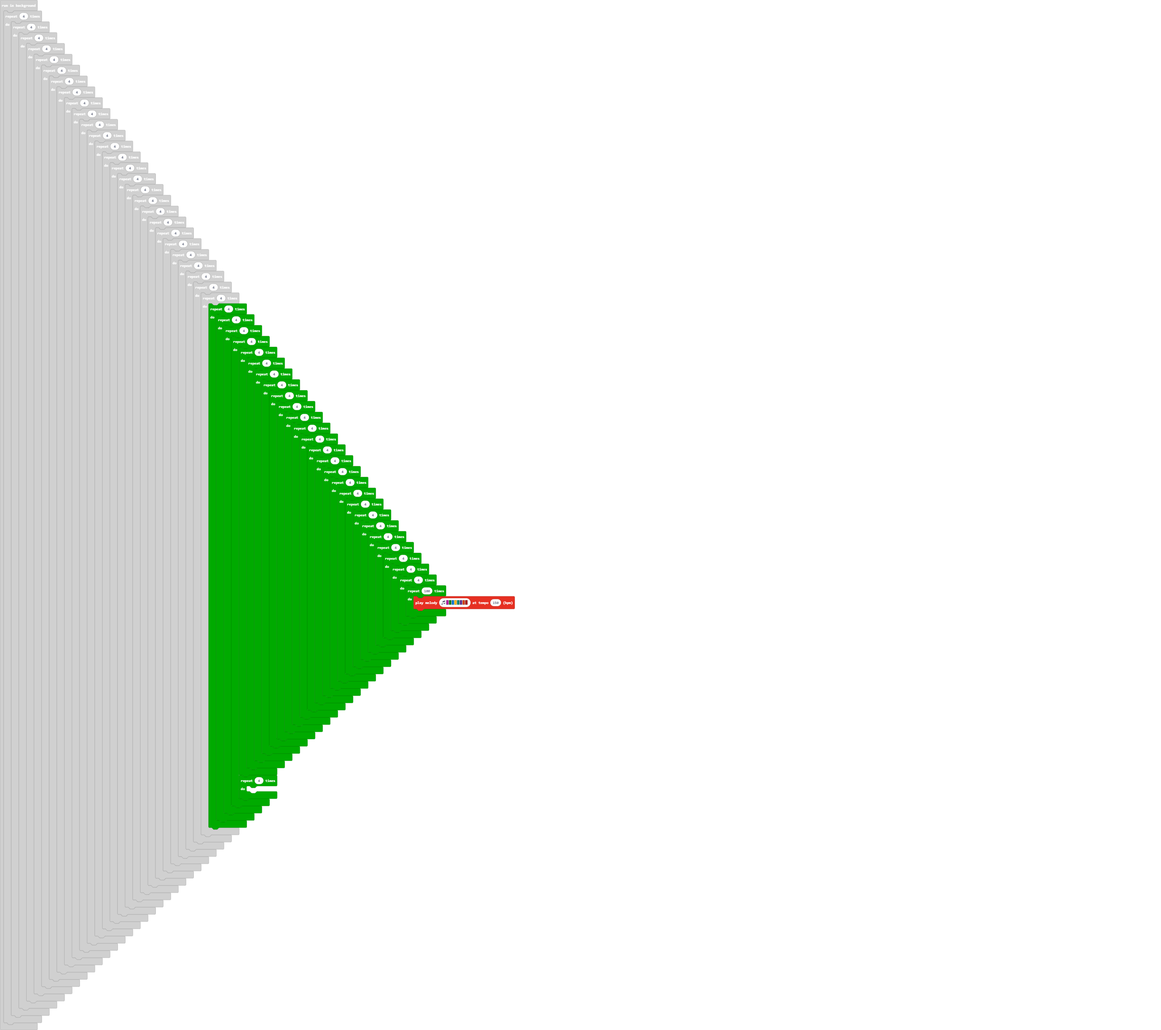
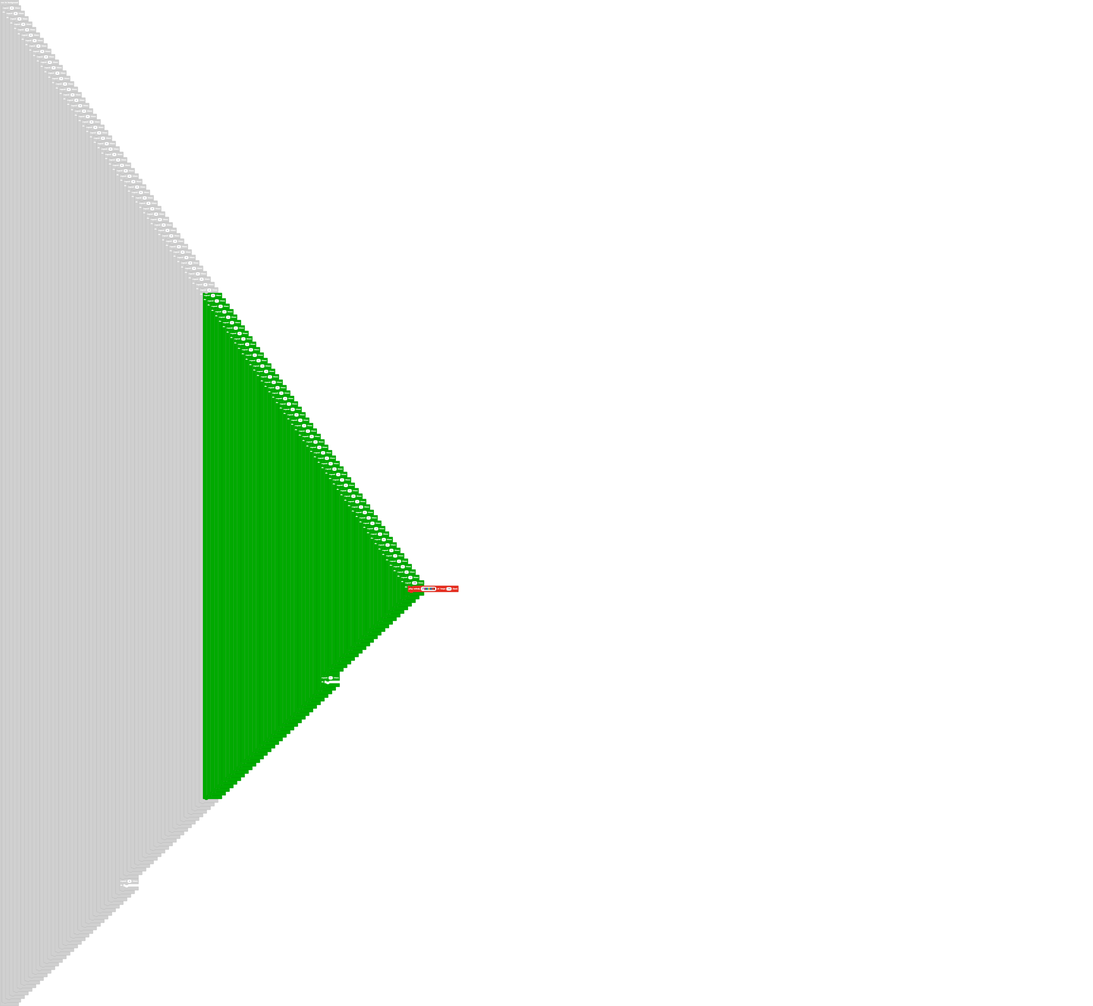
Very VERY V E R Y big loop.

diff --git a/main.ts b/main.ts
@@ -305,8 +305,117 @@ control.inBackground(function () {
                                                                                                                                                                                                             for (let index = 0; index < 4; index++) {
                                                                                                                                                                                                                 for (let index = 0; index < 4; index++) {
                                                                                                                                                                                                                     for (let index = 0; index < 4; index++) {
-                                                                                                                                                                                                                        for (let index = 0; index < 100; index++) {
-                                                                                                                                                                                                                            music.playMelody("C G E A F D B C5 ", 150)
+                                                                                                                                                                                                                        for (let index = 0; index < 4; index++) {
+                                                                                                                                                                                                                            for (let index = 0; index < 4; index++) {
+                                                                                                                                                                                                                                for (let index = 0; index < 4; index++) {
+                                                                                                                                                                                                                                    for (let index = 0; index < 4; index++) {
+                                                                                                                                                                                                                                        for (let index = 0; index < 4; index++) {
+                                                                                                                                                                                                                                            for (let index = 0; index < 4; index++) {
+                                                                                                                                                                                                                                                for (let index = 0; index < 4; index++) {
+                                                                                                                                                                                                                                                    for (let index = 0; index < 4; index++) {
+                                                                                                                                                                                                                                                        for (let index = 0; index < 4; index++) {
+                                                                                                                                                                                                                                                            for (let index = 0; index < 4; index++) {
+                                                                                                                                                                                                                                                                for (let index = 0; index < 4; index++) {
+                                                                                                                                                                                                                                                                    for (let index = 0; index < 4; index++) {
+                                                                                                                                                                                                                                                                        for (let index = 0; index < 4; index++) {
+                                                                                                                                                                                                                                                                            for (let index = 0; index < 4; index++) {
+                                                                                                                                                                                                                                                                                for (let index = 0; index < 4; index++) {
+                                                                                                                                                                                                                                                                                    for (let index = 0; index < 4; index++) {
+                                                                                                                                                                                                                                                                                        for (let index = 0; index < 4; index++) {
+                                                                                                                                                                                                                                                                                            for (let index = 0; index < 4; index++) {
+                                                                                                                                                                                                                                                                                                for (let index = 0; index < 4; index++) {
+                                                                                                                                                                                                                                                                                                    for (let index = 0; index < 4; index++) {
+                                                                                                                                                                                                                                                                                                        for (let index = 0; index < 4; index++) {
+                                                                                                                                                                                                                                                                                                            for (let index = 0; index < 4; index++) {
+                                                                                                                                                                                                                                                                                                                for (let index = 0; index < 4; index++) {
+                                                                                                                                                                                                                                                                                                                    for (let index = 0; index < 4; index++) {
+                                                                                                                                                                                                                                                                                                                        for (let index = 0; index < 4; index++) {
+                                                                                                                                                                                                                                                                                                                            for (let index = 0; index < 4; index++) {
+                                                                                                                                                                                                                                                                                                                                for (let index = 0; index < 4; index++) {
+                                                                                                                                                                                                                                                                                                                                    for (let index = 0; index < 4; index++) {
+                                                                                                                                                                                                                                                                                                                                        for (let index = 0; index < 4; index++) {
+                                                                                                                                                                                                                                                                                                                                            for (let index = 0; index < 4; index++) {
+                                                                                                                                                                                                                                                                                                                                                for (let index = 0; index < 4; index++) {
+                                                                                                                                                                                                                                                                                                                                                    for (let index = 0; index < 4; index++) {
+                                                                                                                                                                                                                                                                                                                                                        for (let index = 0; index < 4; index++) {
+                                                                                                                                                                                                                                                                                                                                                            for (let index = 0; index < 4; index++) {
+                                                                                                                                                                                                                                                                                                                                                                for (let index = 0; index < 4; index++) {
+                                                                                                                                                                                                                                                                                                                                                                    for (let index = 0; index < 4; index++) {
+                                                                                                                                                                                                                                                                                                                                                                        for (let index = 0; index < 4; index++) {
+                                                                                                                                                                                                                                                                                                                                                                            for (let index = 0; index < 4; index++) {
+                                                                                                                                                                                                                                                                                                                                                                                for (let index = 0; index < 4; index++) {
+                                                                                                                                                                                                                                                                                                                                                                                    for (let index = 0; index < 4; index++) {
+                                                                                                                                                                                                                                                                                                                                                                                        for (let index = 0; index < 4; index++) {
+                                                                                                                                                                                                                                                                                                                                                                                            for (let index = 0; index < 4; index++) {
+                                                                                                                                                                                                                                                                                                                                                                                                for (let index = 0; index < 4; index++) {
+                                                                                                                                                                                                                                                                                                                                                                                                    for (let index = 0; index < 4; index++) {
+                                                                                                                                                                                                                                                                                                                                                                                                        for (let index = 0; index < 4; index++) {
+                                                                                                                                                                                                                                                                                                                                                                                                            for (let index = 0; index < 4; index++) {
+                                                                                                                                                                                                                                                                                                                                                                                                                for (let index = 0; index < 4; index++) {
+                                                                                                                                                                                                                                                                                                                                                                                                                    for (let index = 0; index < 4; index++) {
+                                                                                                                                                                                                                                                                                                                                                                                                                        for (let index = 0; index < 4; index++) {
+                                                                                                                                                                                                                                                                                                                                                                                                                            for (let index = 0; index < 4; index++) {
+                                                                                                                                                                                                                                                                                                                                                                                                                                for (let index = 0; index < 4; index++) {
+                                                                                                                                                                                                                                                                                                                                                                                                                                    for (let index = 0; index < 4; index++) {
+                                                                                                                                                                                                                                                                                                                                                                                                                                        for (let index = 0; index < 4; index++) {
+                                                                                                                                                                                                                                                                                                                                                                                                                                            for (let index = 0; index < 100; index++) {
+                                                                                                                                                                                                                                                                                                                                                                                                                                                music.playMelody("C G E A F D B C5 ", 150)
+                                                                                                                                                                                                                                                                                                                                                                                                                                            }
+                                                                                                                                                                                                                                                                                                                                                                                                                                        }
+                                                                                                                                                                                                                                                                                                                                                                                                                                    }
+                                                                                                                                                                                                                                                                                                                                                                                                                                }
+                                                                                                                                                                                                                                                                                                                                                                                                                            }
+                                                                                                                                                                                                                                                                                                                                                                                                                        }
+                                                                                                                                                                                                                                                                                                                                                                                                                    }
+                                                                                                                                                                                                                                                                                                                                                                                                                }
+                                                                                                                                                                                                                                                                                                                                                                                                            }
+                                                                                                                                                                                                                                                                                                                                                                                                        }
+                                                                                                                                                                                                                                                                                                                                                                                                    }
+                                                                                                                                                                                                                                                                                                                                                                                                }
+                                                                                                                                                                                                                                                                                                                                                                                            }
+                                                                                                                                                                                                                                                                                                                                                                                        }
+                                                                                                                                                                                                                                                                                                                                                                                    }
+                                                                                                                                                                                                                                                                                                                                                                                }
+                                                                                                                                                                                                                                                                                                                                                                            }
+                                                                                                                                                                                                                                                                                                                                                                        }
+                                                                                                                                                                                                                                                                                                                                                                    }
+                                                                                                                                                                                                                                                                                                                                                                }
+                                                                                                                                                                                                                                                                                                                                                            }
+                                                                                                                                                                                                                                                                                                                                                        }
+                                                                                                                                                                                                                                                                                                                                                    }
+                                                                                                                                                                                                                                                                                                                                                    for (let index = 0; index < 4; index++) {
+                                                                                                                                                                                                                                                                                                                                                    	
+                                                                                                                                                                                                                                                                                                                                                    }
+                                                                                                                                                                                                                                                                                                                                                }
+                                                                                                                                                                                                                                                                                                                                            }
+                                                                                                                                                                                                                                                                                                                                        }
+                                                                                                                                                                                                                                                                                                                                    }
+                                                                                                                                                                                                                                                                                                                                }
+                                                                                                                                                                                                                                                                                                                            }
+                                                                                                                                                                                                                                                                                                                        }
+                                                                                                                                                                                                                                                                                                                    }
+                                                                                                                                                                                                                                                                                                                }
+                                                                                                                                                                                                                                                                                                            }
+                                                                                                                                                                                                                                                                                                        }
+                                                                                                                                                                                                                                                                                                    }
+                                                                                                                                                                                                                                                                                                }
+                                                                                                                                                                                                                                                                                            }
+                                                                                                                                                                                                                                                                                        }
+                                                                                                                                                                                                                                                                                    }
+                                                                                                                                                                                                                                                                                }
+                                                                                                                                                                                                                                                                            }
+                                                                                                                                                                                                                                                                        }
+                                                                                                                                                                                                                                                                    }
+                                                                                                                                                                                                                                                                }
+                                                                                                                                                                                                                                                            }
+                                                                                                                                                                                                                                                        }
+                                                                                                                                                                                                                                                    }
+                                                                                                                                                                                                                                                }
+                                                                                                                                                                                                                                            }
+                                                                                                                                                                                                                                        }
+                                                                                                                                                                                                                                    }
+                                                                                                                                                                                                                                }
+                                                                                                                                                                                                                            }
                                                                                                                                                                                                                         }
                                                                                                                                                                                                                     }
                                                                                                                                                                                                                 }
